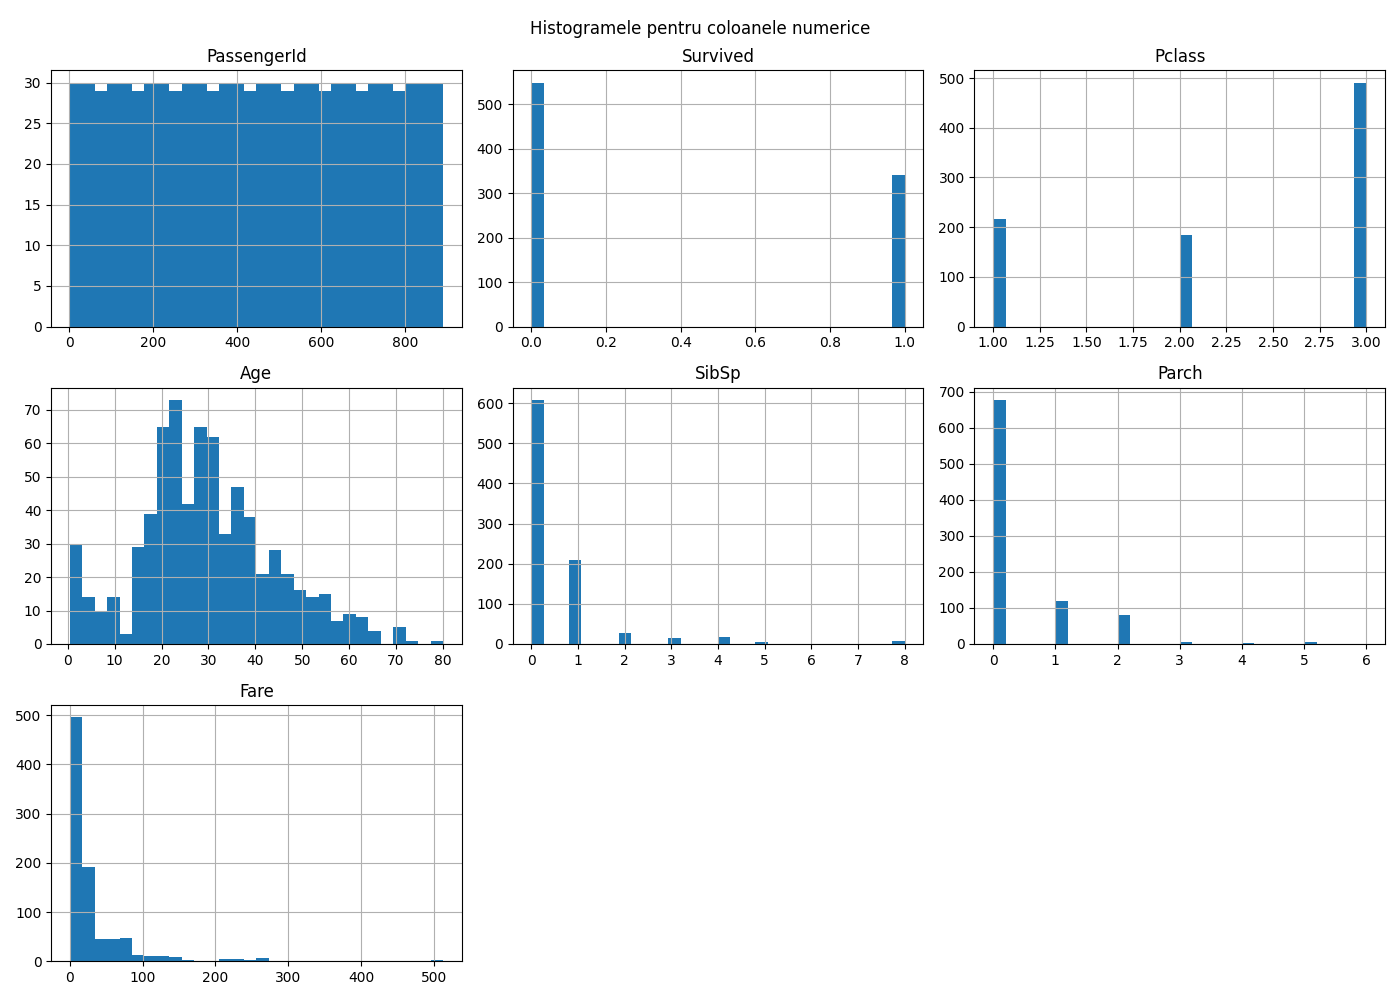
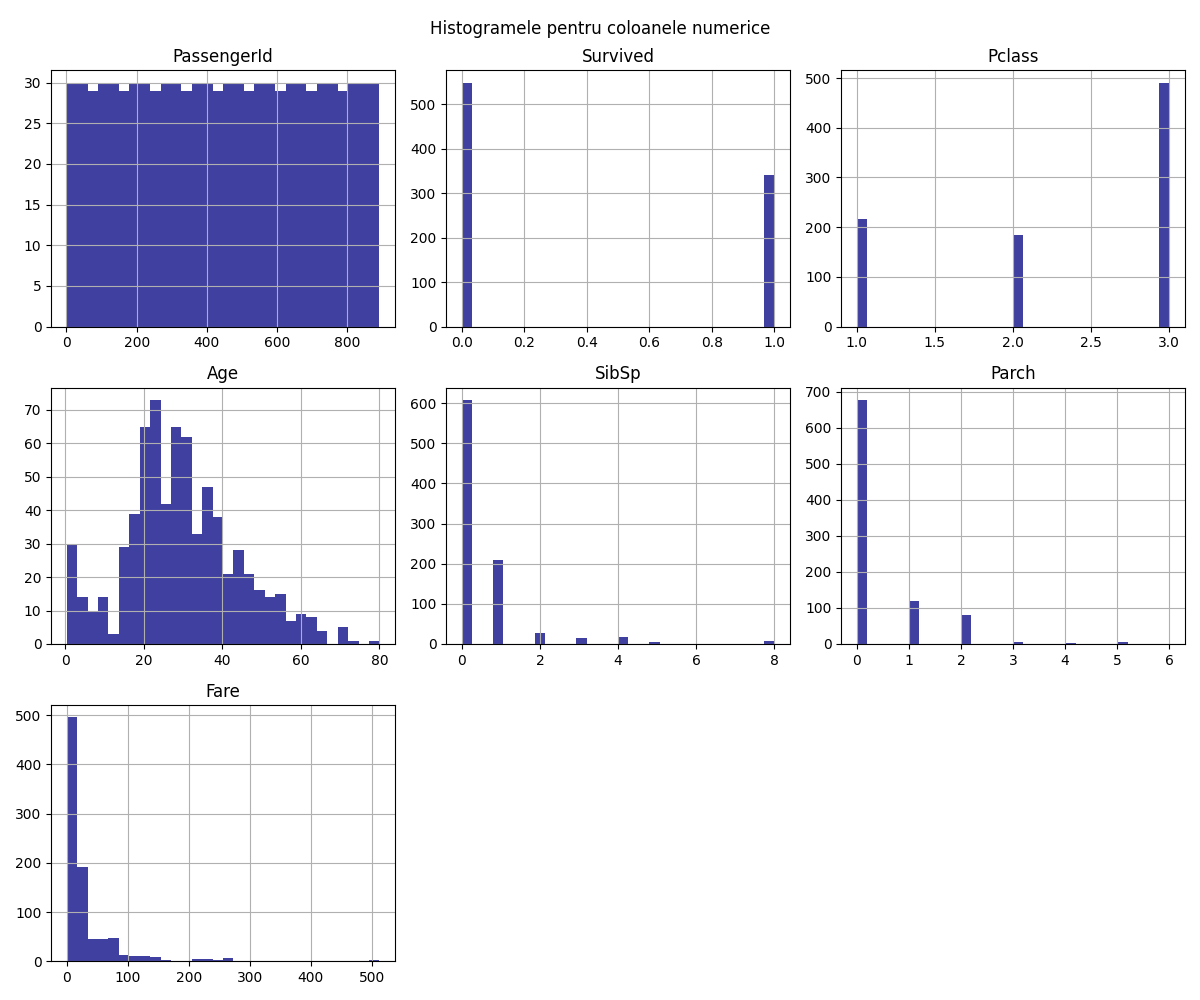
primele 5 cerinte

diff --git a/proiect.py b/proiect.py
@@ -43,18 +43,17 @@ print(f"Procentul femeilor: {procent_sex['female']:.2f}%\n")
 
 # Grafic pentru prezentarea rezultatelor
 fig, ax = plt.subplots(1, 3, figsize=(18, 5))
-
-sns.barplot(x=rata_supravietuire.index, y=rata_supravietuire.values, ax=ax[0])
+sns.barplot(x=rata_supravietuire.index, y=rata_supravietuire.values, ax=ax[0], color='pink', alpha=0.8)
 ax[0].set_title('Procentul de supravietuire')
 ax[0].set_ylabel('Procent')
 ax[0].set_xticks([0, 1])
 ax[0].set_xticklabels(['Nu', 'Da'])
 
-sns.barplot(x=procent_clasa.index, y=procent_clasa.values, ax=ax[1])
+sns.barplot(x=procent_clasa.index, y=procent_clasa.values, ax=ax[1], color='coral', alpha=0.8)
 ax[1].set_title('Procentul pasagerilor pe clasa')
 ax[1].set_ylabel('Procent')
 
-sns.barplot(x=procent_sex.index, y=procent_sex.values, ax=ax[2])
+sns.barplot(x=procent_sex.index, y=procent_sex.values, ax=ax[2], color='orange', alpha=0.8)
 ax[2].set_title('Procentul pe sexe')
 ax[2].set_ylabel('Procent')
 
@@ -66,7 +65,7 @@ print(f"Graficul este salvat in grafic1.png\n")
 
 # Generarea histogramelor pentru coloanele numerice
 coloane_numerice = data.select_dtypes(include=[np.number]).columns
-data[coloane_numerice].hist(bins=30, figsize=(14, 10), layout=(3, 3))
+data[coloane_numerice].hist(bins=30, figsize=(12, 10), layout=(3, 3), color='navy', alpha=0.75)
 plt.suptitle('Histogramele pentru coloanele numerice')
 plt.tight_layout()
 plt.savefig("histograma.png")
@@ -121,10 +120,10 @@ data['Index'] = data['Index'].map(dict(zip(range(len(categorii_varsta)), index_c
 print(data)
 
 # Crearea graficului
-fig, ax = plt.subplots(figsize=(18, 5))
+fig, ax = plt.subplots(figsize=(6, 5))
 
 # Graficul pentru numărul de pasageri pentru fiecare categorie de vârstă
-ax.bar(index_categorii, nr_pasageri_per_categorie)
+ax.bar(index_categorii, nr_pasageri_per_categorie, color='purple', alpha=0.75)
 ax.set_title('Numarul de pasageri pentru fiecare categorie de varsta')
 ax.set_xlabel('Indexul categoriei de varsta')
 ax.set_ylabel('Numărul de pasageri')
